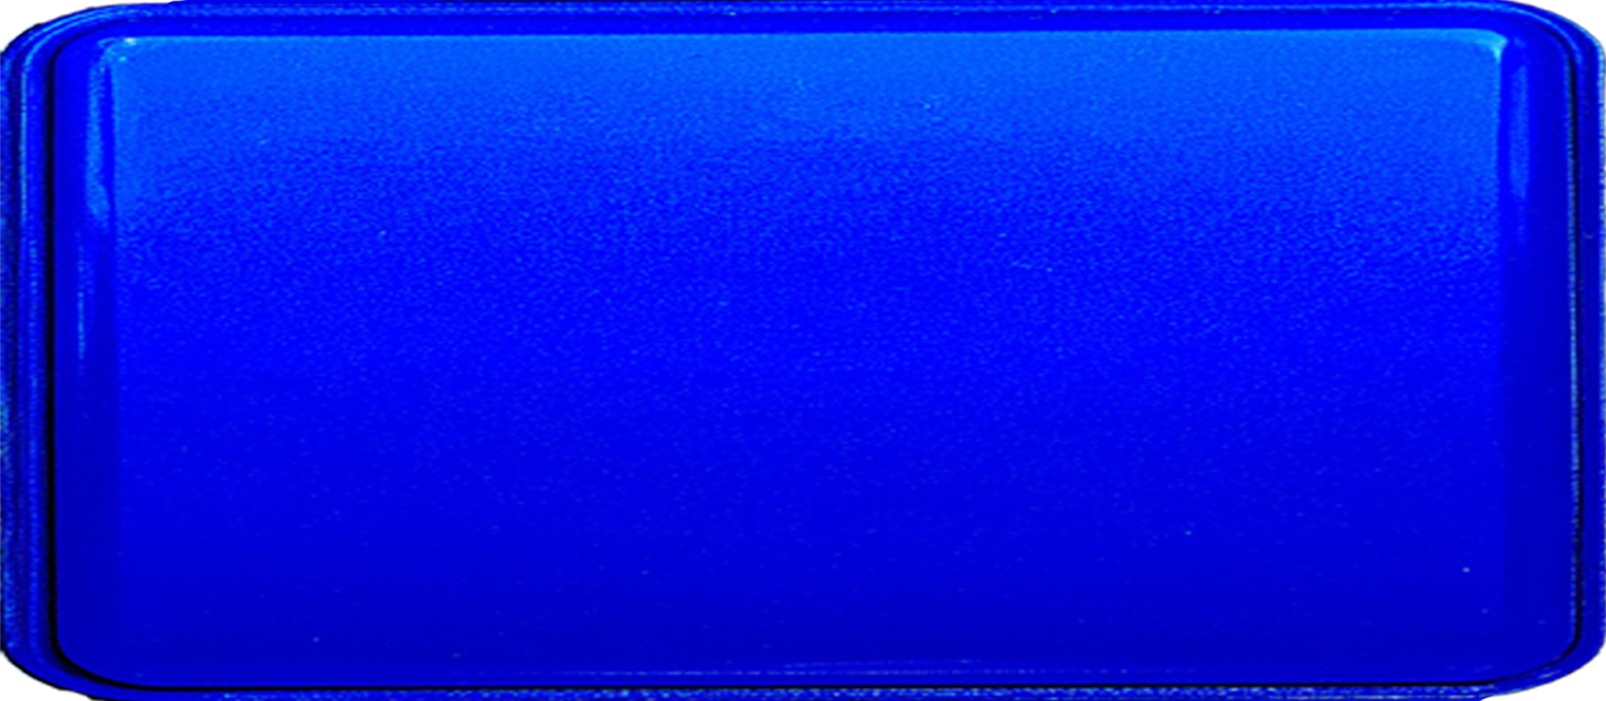
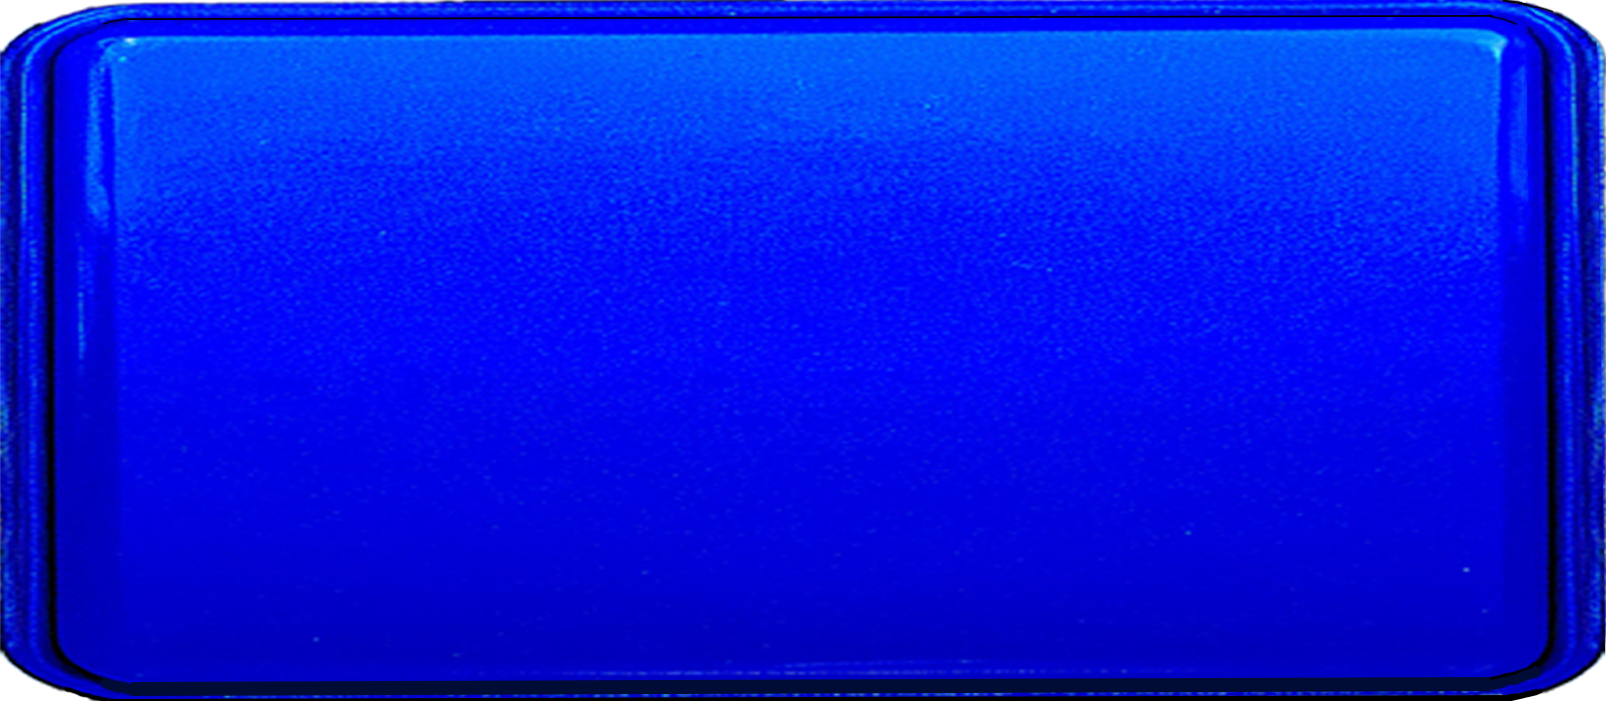
data entering

Changed region(s): [[0.0311, 0.0, 1.0, 1.0], [0.0934, 0.0, 0.8406, 0.03]]

diff --git a/src/main/java/app/swing/button/Button.java b/src/main/java/app/swing/button/Button.java
@@ -24,6 +24,8 @@ public class Button extends JPanel {
     private String text;
     private int padding;
     private Font font;
+    private Image iconImage;
+    private int iconTextGap = 8; // space between icon and text
 
     private Color textColor = Color.WHITE;
     private final Color pressColor = Color.BLUE;
@@ -31,14 +33,18 @@ public class Button extends JPanel {
     private int pressOffset = 0; // vertical shift during press animation
 
     public Button(String text, Font font) {
-        this(text, DEFAULT_IMAGE_PATH, DEFAULT_WIDTH, DEFAULT_HEIGHT, DEFAULT_PADDING, font);
+        this(text, DEFAULT_IMAGE_PATH, null, DEFAULT_WIDTH, DEFAULT_HEIGHT, DEFAULT_PADDING, font);
     }
-
+    
+    public Button(String text, Font font,  String iconImagePath) {
+        this(text, DEFAULT_IMAGE_PATH, iconImagePath, DEFAULT_WIDTH, DEFAULT_HEIGHT, DEFAULT_PADDING, font);
+    }
+    
     public Button(String text, String imagePath, Font font) {
-        this(text, imagePath, DEFAULT_WIDTH, DEFAULT_HEIGHT, DEFAULT_PADDING, font);
+        this(text, imagePath, null, DEFAULT_WIDTH, DEFAULT_HEIGHT, DEFAULT_PADDING, font);
     }
 
-    public Button(String text, String imagePath, int width, int height, int padding, Font font) {
+    protected Button(String text, String imagePath, String iconImagePath, int width, int height, int padding, Font font) {
         this.text = text;
         this.padding = padding;
         this.font = font;
@@ -51,6 +57,13 @@ public class Button extends JPanel {
             }
         }
         this.backgroundImage = img;
+        
+        if (iconImagePath != null) {
+            java.net.URL iconUrl = getClass().getResource(iconImagePath);
+            if (iconUrl != null) {
+                this.iconImage = new ImageIcon(iconUrl).getImage();
+            }
+        }
 
         setPreferredSize(new Dimension(width + padding * 2, height + padding * 2));
         setOpaque(false); // respect PNG transparency
@@ -67,25 +80,49 @@ public class Button extends JPanel {
         }
 
         // draw text
+//        if (text != null && !text.isEmpty()) {
+//            g.setColor(textColor);
+//            g.setFont(font);
+//            FontMetrics fm = g.getFontMetrics();
+//            int x = (getWidth() - fm.stringWidth(text)) / 2;
+//            int y = (getHeight() - fm.getHeight()) / 2 + fm.getAscent() + pressOffset;
+//            g.drawString(text, x, y);
+//        }
+        
         if (text != null && !text.isEmpty()) {
             g.setColor(textColor);
             g.setFont(font);
             FontMetrics fm = g.getFontMetrics();
-            int x = (getWidth() - fm.stringWidth(text)) / 2;
-            int y = (getHeight() - fm.getHeight()) / 2 + fm.getAscent() + pressOffset;
-            g.drawString(text, x, y);
-        }
-    }
 
-    public void setText(String text) {
-        this.text = text;
-        repaint();
-    }
+            int textWidth = fm.stringWidth(text);
+            int textHeight = fm.getAscent();
 
-    public void setFontSize(float size) {
-        if (font != null) {
-            font = font.deriveFont(size);
-            repaint();
+            int iconWidth = 0;
+            int iconHeight = 0;
+
+            // scale icon to ~60% of button height
+            if (iconImage != null) {
+                double scaleFactor = 0.6; // smaller = icon height is 60% of button height
+                iconHeight = (int) (getHeight() * scaleFactor);
+                double aspectRatio = (double) iconImage.getWidth(this) / iconImage.getHeight(this);
+                iconWidth = (int) (iconHeight * aspectRatio);
+            }
+
+            int totalWidth = textWidth + (iconImage != null ? iconWidth + iconTextGap : 0);
+
+            // center icon+text block horizontally
+            int startX = (getWidth() - totalWidth) / 2;
+            int textY = (getHeight() - fm.getHeight()) / 2 + textHeight + pressOffset;
+
+            // draw icon
+            if (iconImage != null) {
+                int iconY = (getHeight() - iconHeight) / 2 + pressOffset; // vertically centered
+                g.drawImage(iconImage, startX, iconY, iconWidth, iconHeight, this);
+                startX += iconWidth + iconTextGap;
+            }
+
+            // draw text
+            g.drawString(text, startX, textY);
         }
     }
 

diff --git a/src/main/java/app/swing/view/PrivacyPolicyView.java b/src/main/java/app/swing/view/PrivacyPolicyView.java
@@ -9,7 +9,7 @@ public class PrivacyPolicyView extends StatefulPanel {
 
 	private static final long serialVersionUID = -7773204528442122200L;
 	
-	private static final String BACKGROUND_IMAGE_PATH = "/images/background_privacy.png";
+	private static final String BACKGROUND_IMAGE_PATH = "/images/PRIVATNOST  s lokotima i okvirom.png";
 	private static final String TITLE = "PRIHVAĆANJE ZAŠTITE PRIVATNOSTI SAKRAMENTALNIH PODATAKA";
 	private static final String TEXT = "Dobrodošli u automatsku ispovjedaonicu ''On the go'' najbrži i najefikasniji način da se ispovjediš u pokretu, mjesto gdje su podatci vas i vaše duše sigurni i povjerljivi.\r\n"
 			+ "\r\n"
@@ -24,12 +24,11 @@ public class PrivacyPolicyView extends StatefulPanel {
 			+ "\r\n"
 			+ "Kaznena zaštita (Kan. 1386 §1): Svako kršenje povjerenja rezultira automatskim resetiranjem softvera, bez iznimki.\r\n"
 			+ "\r\n"
-			+ "Vaša privatnost je sveta. Ovdje niste samo korisnik. Ovdje ste duša u digitalnom svijetu. (left tekst/8pt/ white- #ffffff)\r\n"
+			+ "Vaša privatnost je sveta. Ovdje niste samo korisnik. Ovdje ste duša u digitalnom svijetu.\r\n"
 			+ "Važno:\r\n"
-			+ "Iako se sadržaj Vaše ispovijedi koliko je moguće strogo čuva i ne reproducira, sustav može koristiti anonimne tehničke podatke o načinu korištenja (poput vremena interakcije, tehničkih parametara i funkcionalnosti) isključivo u svrhu poboljšanja kvalitete usluge i korisničkog iskustva. Ovi podaci ne sadrže nikakve informacije o sadržaju Vaše ispovijedi i obrađuju se u skladu s važećim zakonima o zaštiti podataka. Podatci automatizirane ispovjedi su sigurni gotovo podjednako kao i kod pravog svećenika. (centre/8pt/white-#ffffff)\r\n"
+			+ "Iako se sadržaj Vaše ispovijedi koliko je moguće strogo čuva i ne reproducira, sustav može koristiti anonimne tehničke podatke o načinu korištenja (poput vremena interakcije, tehničkih parametara i funkcionalnosti) isključivo u svrhu poboljšanja kvalitete usluge i korisničkog iskustva. Ovi podaci ne sadrže nikakve informacije o sadržaju Vaše ispovijedi i obrađuju se u skladu s važećim zakonima o zaštiti podataka. Podatci automatizirane ispovjedi su sigurni gotovo podjednako kao i kod pravog svećenika.\r\n"
 			+ "\r\n"
-			+ "Molimo vas da crvenim gumbom potvrdite da ste pročitali i prihvaćate uvjete zaštite privatnosti. (centre/8pt/white- #ffffff)\r\n"
-			+ "";
+			+ "Molimo vas da crvenim gumbom potvrdite da ste pročitali i prihvaćate uvjete zaštite privatnosti.";
 
 	public PrivacyPolicyView(StatefulApplication app) {
 		super(app, BACKGROUND_IMAGE_PATH, TITLE, TEXT);

diff --git a/src/main/java/app/swing/frame/StatefulPanel.java b/src/main/java/app/swing/frame/StatefulPanel.java
@@ -13,14 +13,13 @@ import javax.swing.JPanel;
 import javax.swing.JTextArea;
 
 import main.java.app.state.StatefulApplication;
-import main.java.app.swing.button.BackButton;
 import main.java.app.swing.button.Button;
+import main.java.app.swing.button.HashButton;
 import main.java.app.util.ButtonListener;
 
 public abstract class StatefulPanel extends JPanel implements ButtonListener {
 
 	private static final long serialVersionUID = -6129290005971012152L;
-	private static final String DEFAULT_BACKGROUND_IMAGE_PATH = "/images/background.jpg";
 
 	protected final StatefulApplication app;
 	protected Image backgroundImage;
@@ -30,10 +29,6 @@ public abstract class StatefulPanel extends JPanel implements ButtonListener {
 	protected Button label;
 	protected Button rightButton;
 	protected Button leftButton;
-
-	protected StatefulPanel(StatefulApplication app, String title, String text) {
-		this(app, DEFAULT_BACKGROUND_IMAGE_PATH, title, text);
-	}
 
 	protected StatefulPanel(StatefulApplication app, String backgroundImagePath, String title, String text) {
 		this(app, new ImageIcon(StatefulPanel.class.getResource(backgroundImagePath)).getImage(), title, text);
@@ -91,7 +86,7 @@ public abstract class StatefulPanel extends JPanel implements ButtonListener {
 	protected Component displayBottom() {
 		JPanel bottomPanel = new JPanel(new BorderLayout());
 		bottomPanel.setOpaque(false);
-		rightButton = new BackButton(new Font(app.getFontName(), Font.PLAIN, 10));
+		rightButton = new HashButton("NAZAD", app.getFont());
 		bottomPanel.add(rightButton, BorderLayout.EAST);
 		return bottomPanel;
 	}

diff --git a/src/main/java/app/swing/view/InsertCoinView.java b/src/main/java/app/swing/view/InsertCoinView.java
@@ -15,10 +15,12 @@ public class InsertCoinView extends StatefulPanel implements CoinListener {
 
 	private static final long serialVersionUID = -5509182536642826627L;
 
-	private static final String TITLE = "Ubacite kovanicu!";
+	private static final String BACKGROUND_IMAGE_PATH = "/images/STARTNI EKRAN s krizem.png";
+	private static final String TITLE = "UBACI MILODAR";
+	private static final String TEXT = "PRITISNI CRVENI GUMB ZA POČETAK";
 	
 	public InsertCoinView(StatefulApplication app) {
-		super(app, TITLE, null);
+		super(app, BACKGROUND_IMAGE_PATH, TITLE, TEXT);
 	}
 
 	@Override
@@ -31,8 +33,8 @@ public class InsertCoinView extends StatefulPanel implements CoinListener {
 		JPanel bottomPanel = new JPanel(new BorderLayout());
 		bottomPanel.setOpaque(false);
 
-		leftButton = new StarButton("  Upute", app.getFont());
-		rightButton = new HashButton("      Rang lista", app.getFont());
+		leftButton = new StarButton("UPUTE", app.getFont());
+		rightButton = new HashButton("RANG", app.getFont());
 
 		bottomPanel.add(leftButton, BorderLayout.WEST);
 		bottomPanel.add(rightButton, BorderLayout.EAST);
@@ -53,7 +55,7 @@ public class InsertCoinView extends StatefulPanel implements CoinListener {
 	@Override
 	public void bigRedButtonPressed() {
 		if (app.getInsertedCoins() > 0.0)
-			label.animateButton(() -> app.show(new PressButtonView(app)));
+			label.animateButton(() -> app.show(new PrivacyPolicyView(app)));
 	}
 
 	@Override

diff --git a/src/main/java/app/swing/view/InstructionsView.java b/src/main/java/app/swing/view/InstructionsView.java
@@ -13,9 +13,9 @@ public class InstructionsView extends StatefulPanel {
 			+ "Nakon što ubacite kovanicu kao milodar u željenom iznosu i prihvatite obrazac o privatnosti ispovijedi, dolazite do sučelja koje vam nudi odabir grijeha prema njihovim odgovarajućim kategorijama.\r\n"
 			+ "Odaberite grijehe koji vam imaju smisla – možete odabrati više grijeha. Nakon odabira svakog grijeha, pritiskom na tipku # na tipkovnici možete se vratiti natrag i odabrati grijehe iz drugih kategorija.\r\n"
 			+ "\r\n"
-			+ "Grijesi se bilježe prema bodovnom sustavu. Na kraju ispovijedi dobit ćete listić \"AI svećenika\" s analizom i komentarom na vaše grijehe te ukupnim brojem \"griješnih bodova\", koji se prevode u broj molitvi koje je potrebno izmoliti kako bi vam grijesi bili oprošteni.\r\n"
+			+ "Grijesi se bilježe prema bodovnom sustavu. Na kraju ispovijedi dobit ćete listić \"AI svećenika\" s analizom i komentarom na vaše grijehe te ukupnim brojem \"grješnih bodova\", koji se prevode u broj molitvi koje je potrebno izmoliti kako bi vam grijesi bili oprošteni.\r\n"
 			+ "\r\n"
-			+ "Također, na početnom ekranu, pritiskom na # možete pogledati rang-listu najvećih grješnika.   ";
+			+ "Također, na početnom ekranu, pritiskom na # možete pogledati rang-listu najvećih grješnika.";
 
 	protected InstructionsView(StatefulApplication app) {
 		super(app, BACKGROUND_IMAGE_PATH, TITLE, TEXT);

diff --git a/src/main/java/app/swing/frame/StatefulPanelWithButtons.java b/src/main/java/app/swing/frame/StatefulPanelWithButtons.java
@@ -19,6 +19,8 @@ import main.java.app.swing.button.ToggleButton;
 public abstract class StatefulPanelWithButtons<T extends Displayable> extends StatefulPanel {
 
     private static final long serialVersionUID = 8245263042179031038L;
+    
+	private static final String BACKGROUND_IMAGE_PATH = "/images/POZADINA CLEAR- za odabir grijeha.png";
 
     protected List<T> data = new ArrayList<>();
     private int pageSize = 4;
@@ -32,7 +34,7 @@ public abstract class StatefulPanelWithButtons<T extends Displayable> extends St
 
     protected StatefulPanelWithButtons(StatefulApplication app, List<T> data, int pageSize,
                                        boolean includeActionButtons, String title) {
-        super(app, title, null);
+        super(app, BACKGROUND_IMAGE_PATH, title, null);
         this.data = data;
         this.pageSize = pageSize;
         this.includeActionButtons = includeActionButtons;

diff --git a/src/main/java/app/swing/view/EndView.java b/src/main/java/app/swing/view/EndView.java
@@ -15,7 +15,9 @@ public class EndView extends StatefulPanel {
 
 	private static final long serialVersionUID = 5201383428151921653L;
 
-	private static final String TITLE = "Calculating sins";
+	private static final String TITLE = "ISPOVIJEDI GRIJEHE";
+	private static final String BACKGROUND_IMAGE_PATH = "/images/ISP CRVENI GUMB KRAJ ekran.png";
+	
 	private static final String SCORE_CONTENT_PREFIX = "You scored: ";
 	private static final String RANK_CONTENT_PREFIX = "Congratulations! You’ve made it into the top 5 sinners! Your position in the top five is: ";
 
@@ -24,7 +26,7 @@ public class EndView extends StatefulPanel {
 	int rank;
 
 	public EndView(StatefulApplication app) {
-		super(app, TITLE, null);
+		super(app, BACKGROUND_IMAGE_PATH, TITLE, null);
 	}
 
 	@Override

diff --git a/src/main/java/app/swing/button/StarButton.java b/src/main/java/app/swing/button/StarButton.java
@@ -5,11 +5,11 @@ import java.awt.Font;
 public class StarButton extends Button {
 
 	private static final long serialVersionUID = -7754726524244795676L;
-	
-	private static final String STAR_BUTTON_IMAGE = "/images/button_star.png";
+
+	private static final String ICON_IMAGE_PATH = "/images/icons/ZVJEZDICA SOLO.png";
 
 	public StarButton(String text, Font font) {
-		super(text, STAR_BUTTON_IMAGE, font);
+		super(text, font, ICON_IMAGE_PATH);
 	}
 
 }

diff --git a/src/main/java/app/swing/button/HashButton.java b/src/main/java/app/swing/button/HashButton.java
@@ -6,10 +6,10 @@ public class HashButton extends Button {
 
 	private static final long serialVersionUID = 6522338955043211588L;
 
-	private static final String HASH_BUTTON_IMAGE = "/images/button_hash.png";
+	private static final String ICON_IMAGE_PATH = "/images/icons/HASHTAG SOLO.png";
 
 	public HashButton(String text, Font font) {
-		super(text, HASH_BUTTON_IMAGE, font);
+		super(text, font, ICON_IMAGE_PATH);
 	}
 
 }

diff --git a/src/main/java/app/swing/view/RankingView.java b/src/main/java/app/swing/view/RankingView.java
@@ -16,7 +16,7 @@ public class RankingView extends StatefulPanel {
 
 	private static final long serialVersionUID = -5340989876577627372L;
 
-	private static final String BACKGROUND_IMAGE_PATH = "/images/background_ranking.png";
+	private static final String BACKGROUND_IMAGE_PATH = "/images/HIGH SCORE novi s okvirom.png";
 
 	protected RankingView(StatefulApplication app) {
 		super(app, BACKGROUND_IMAGE_PATH, null, null);

diff --git a/src/main/java/app/state/StatefulApplication.java b/src/main/java/app/state/StatefulApplication.java
@@ -133,13 +133,11 @@ public abstract class StatefulApplication {
 		this.insertedCoins = 0.0f;
 	}
 	
-	public void incrementInsertedCoins(float coinValue)
-	{
+	public void incrementInsertedCoins(float coinValue) {
 		insertedCoins += coinValue;
 	}
 	
-	public float getInsertedCoins()
-	{
+	public float getInsertedCoins()	{
 		return insertedCoins;
 	}
 }
